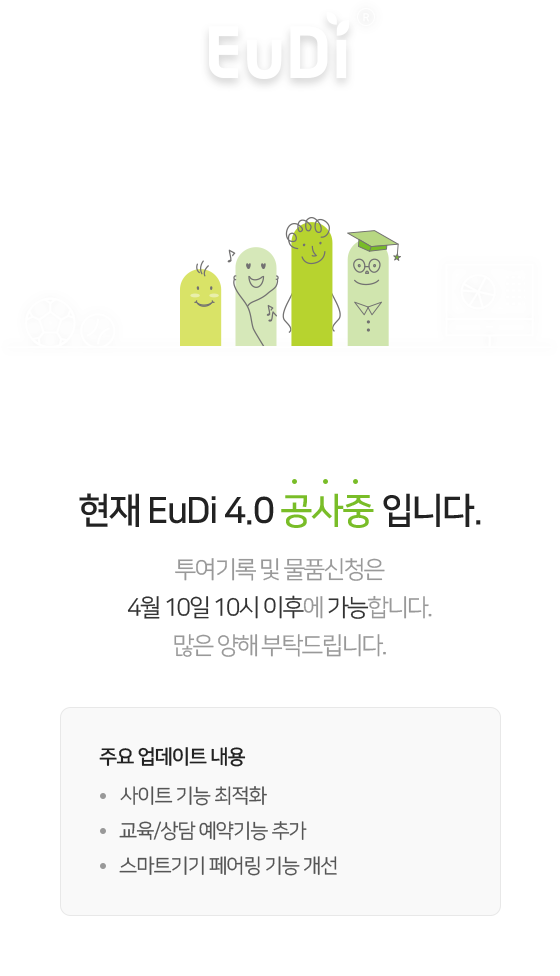
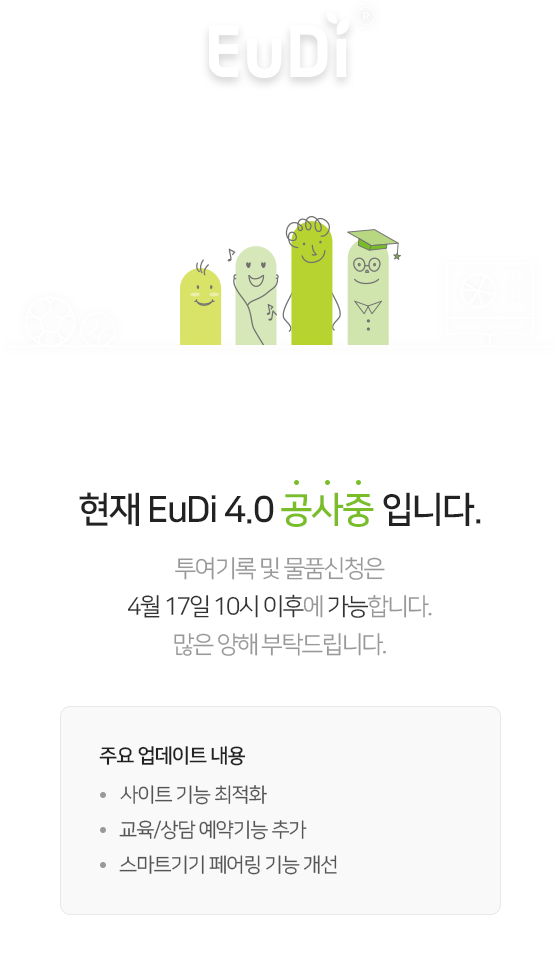
환아앱_메인 4.0업데이트 공지날짜 수정/ 공사중팝업 이미지 교체_2023.04.11

diff --git a/resource/assets/web/child/main.html b/resource/assets/web/child/main.html
@@ -2839,8 +2839,8 @@ function fnLogOut(){
               <p class="pop_tit">EuDi 4.0 업데이트 공지</p>
               <div class="noti">
                 <b>작업 기간</b>
-                <span>4/ 08일(금) 16시 <em>(물품마감-14시)</em> ~<br>
-                  4/10일(월) 10시
+                <span>4/15일(토) 13시 <em>(물품마감-14시)</em> ~<br>
+                  4/17일(월) 10시
                 </span>
               </div>
               <ul>
@@ -2851,7 +2851,7 @@ function fnLogOut(){
                 </li>
                 <li>
                   스마트 케이스에 저장된 투여 정보를<br>
-                  4월 08일 16시까지 반드시 전송하여 주세요!!
+                  4월 14일 16시까지 반드시 전송하여 주세요!!
                 </li>
                 <li>업데이트 이후에는 새롭게 페어링이 필요합니다</li>
               </ul>
